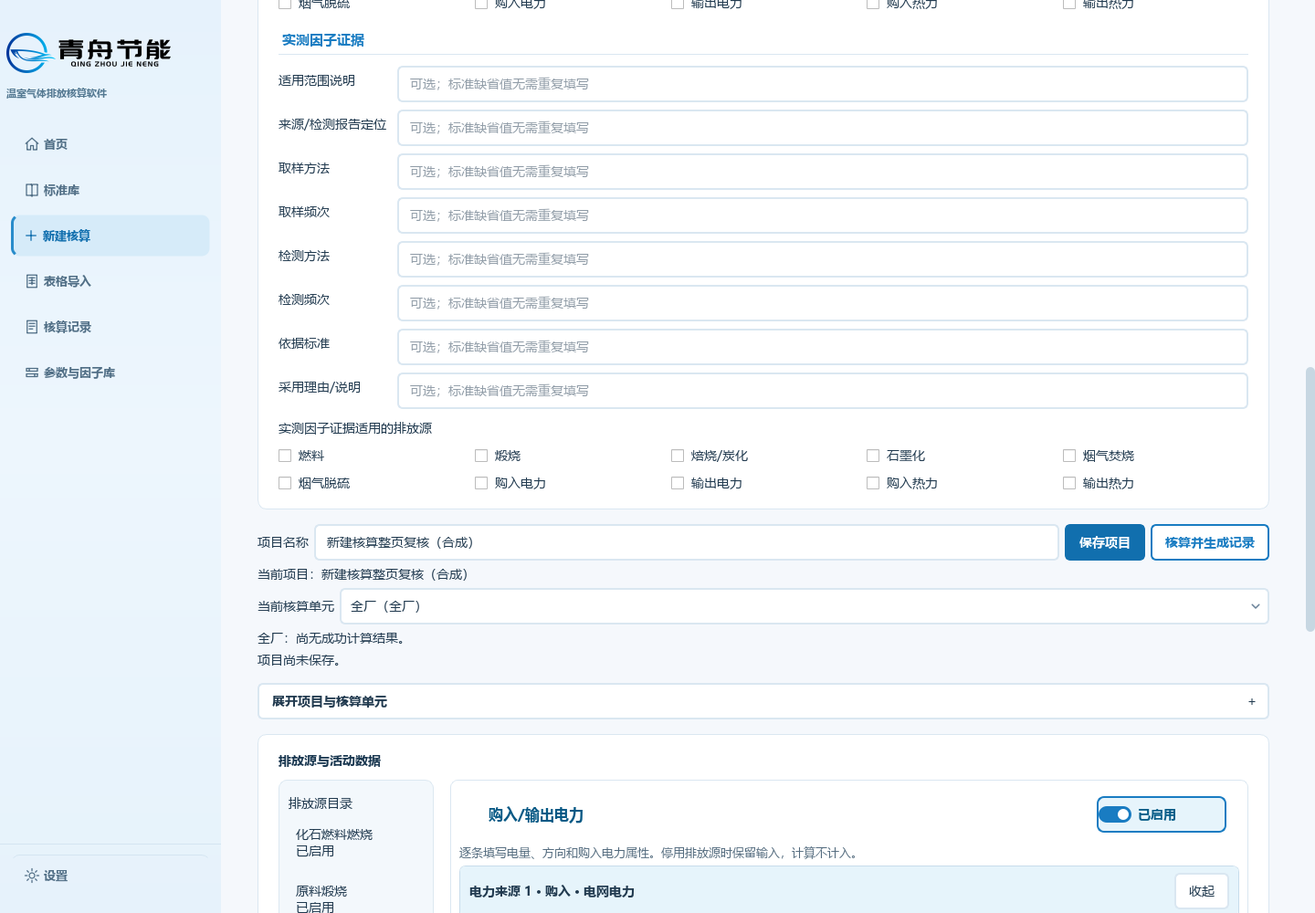
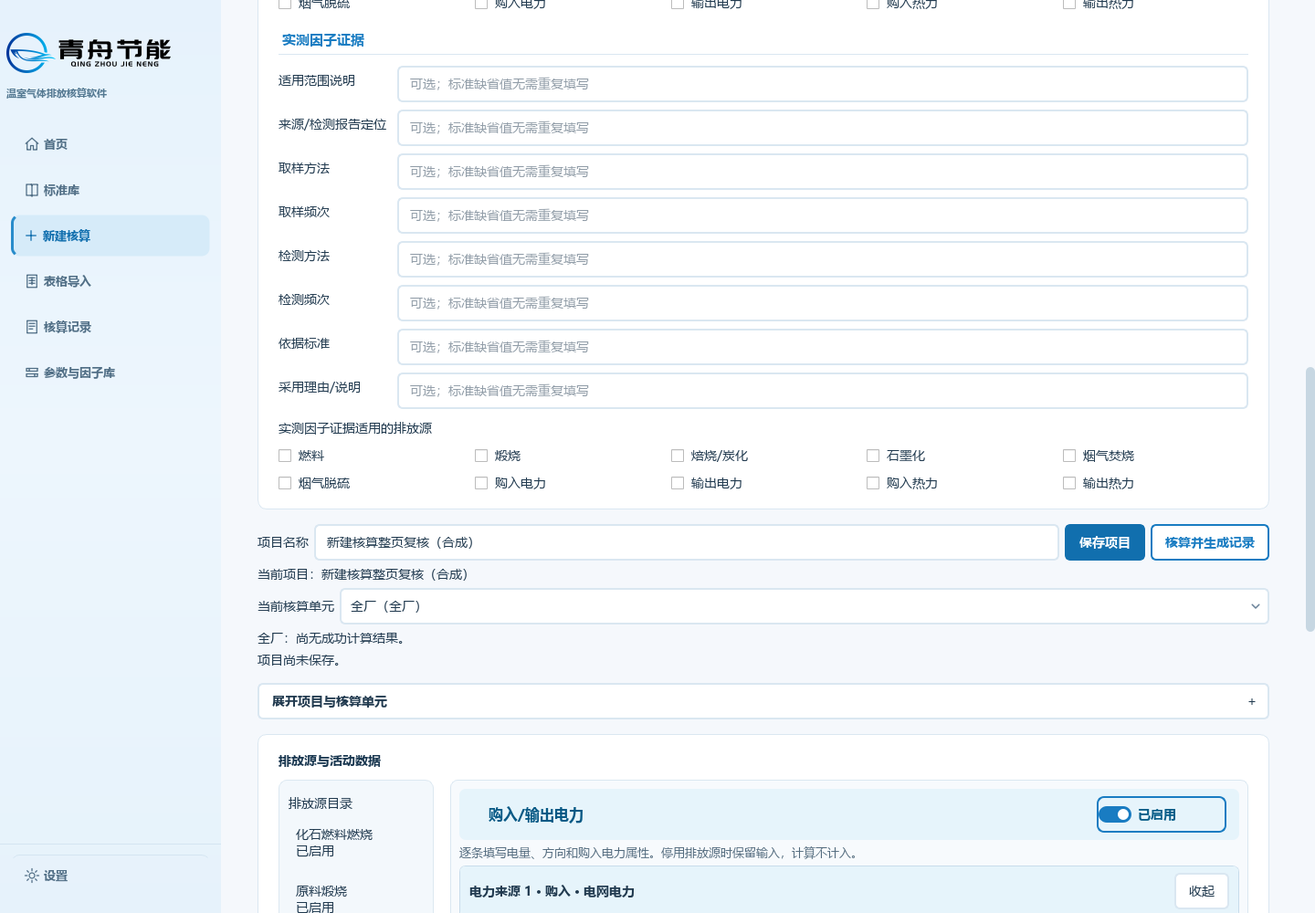
冻结astra已通过图集及完整回归前证据

Changed region(s): [[0.3438, 0.837, 0.9688, 0.93]]

diff --git a/IMPLEMENTATION_REPORT.md b/IMPLEMENTATION_REPORT.md
@@ -1,52 +1,50 @@
-# 新建核算第二批实施报告（视觉复核中，2026-10-29）
+# 新建核算第二批实施报告（视觉通过，完整回归前）
 
-R7候选断点：698ba17受影响回归R27共40/40通过478.760s，R6综合70+旧项目22抓图均成功、源稳定/回调0；燃料下部与添加按钮已完整显示、灰块清理。自查发现目录旧泛用background:white覆盖集中后的标题蓝底；当前仅把该规则限定面板本身，恢复同一tokens原配色，不恢复逐对象样式重编译。准备新清洁head R7同组新图复验；原R5/R6图不改标。以下旧断点保留历史，最终阶段报告会统一重写。
+2026-10-29。产品源a0dabc8ca49e744ef73704a126c2eaae2fc314dc；本报告冻结前本地证据与后续GitHub精确head证据分别记录，不预填CI通过。
 
-最新稳定断点：R24天然气宽1440→窄1180→宽1440的完整氧化率控件/换算值/添加按钮及原嵌套布局2/2通过37.773s，状态/Record不变。R26原三档缩放父测试1/1通过171.652s；实际DPR1/1.25/1.5分别55.946/56.274/56.461s，均在原60秒子进程限制内，断言/预算不改。已集中页面局部重复样式、批量迁移原控件、对非wheel事件等价False快速放行，显示/隐藏配对注册与wheel保护保留。R5 astra已逐图92/92复核，原图/source/script哈希一致，仅旧燃料宽转窄HOLD待新图关闭；灰块非阻断亦已在新候选清理。当前准备新清洁候选R6同组图、受影响回归与astra复验，尚未完整回归/新PR/CI/打包。
+## 平台 / Contract预检查
 
-前序真实失败：R20 1.0超60秒，1项失败67.757s；R21剖析单档几何通过93.055s但不是原60秒门禁通过；集中样式R22仍失败63.095s；布局批处理R25虽59.827s输出PASS但进程未在60秒退出，仍失败62.647s。全部原日志/阶段输出保留，未改标成功。燃料裁切的实测根因是内容649高而viewport滞留539高，修复仅通知自然高度变化，不靠硬编码高度或取景掩盖。
+canonical origin实际核对adgo07/GHGTOOL；复用codex/new-accounting-page-v2，非破坏性整合PR60/PR62已合并main224442530fcc61d8224c45e486688b2c27ec9324。中央Frozen锁ee5feb0cc34dbd99790500fadd0c4c932e202a20不变；按锁读取Architecture V2.1，MUST保持分层、显示不回流计算、Qt状态不成为公共Workspace。已读正式中央main a389ac1de63c4f331f3b04e5e7b7a17ef02ed111的ACTIVE UI v0.2与家族规格。本任务不涉及中央公共 Contract，无需改中央；UI缺陷分类LOCAL DEFECT，Carbon p40/HALF_UP仍为项目Profile。相关Standard Issue015/016/017/020存在，本任务未改变既有软件解释、公式、标准范围或SUPPORTED状态。
 
-当前修订断点：R5复核发现旧燃料宽转窄内部裁切HOLD；已定位内容649高而viewport仍539高。具体ScrollArea尺寸通知修复及原嵌套边界R24共2/2通过37.773s，form_state/Record不变。R20原三档父测试第一档60秒超时（67.757s）；R21单档剖析93.055s几何通过但不代替60秒门禁，139次重复框架累计26.640s，其中278次局部样式14.421s。集中样式后R22仍超时（63.095s，dynamic57.405/geometry59.469）；现进一步批量迁移布局，原60秒上限/断言不改，R25运行中。原失败和R5全部原件保全。当前新修订未提交，后文4552afa/R5为前一候选历史，不能当最新视觉已过。待性能验证、定向回归稳定后新清洁head重新抓R6并送astra；完整回归/新PR/CI/包仍未运行。
+## 实现与保护范围
 
-## 平台 / Contract 预检查
+八源用户点击启用、已启用再点击只浏览；程序/恢复/错误导航不启用。外部CO₂第九入口独立，访问不自动声明，不并入ES/EI/ET。燃料改为含碳量数据来源，保留路径与来源维度。电力地区/精确候选值/年份来源分列，保留五表/OTHER/真实0/无适用阻断。热力按Owner批准简化常用外购入口、特殊展开、旧未知/内部/输出保留，Issue015不变。
 
-业务仓canonical origin已实核为`adgo07/GHGTOOL`；沿用`codex/new-accounting-page-v2`工作树，保留e8776de既有成果，非破坏性合并最新main `224442530fcc61d8224c45e486688b2c27ec9324`。PR60、PR62均已合并，原未合并依赖假设失效。中央Frozen锁`ee5feb0cc34dbd99790500fadd0c4c932e202a20`不变；当前正式中央main `a389ac1de63c4f331f3b04e5e7b7a17ef02ed111`的ACTIVE UI v0.2（2026-10-26视觉默认值）与产品家族规格已读取。相关Architecture V2.1要求Presentation/Application/Domain分层、显示不回流正式计算；Qt控件状态不能成为未来跨平台Workspace Contract。本任务不涉及中央公共 Contract，不需修改中央Frozen；整合缺陷属于LOCAL DEFECT。Carbon p40/HALF_UP为本项目Profile，不是平台默认。
+父子对象标题/归属/增删/折叠、新增及首次错误定位保留原控件、ID、草稿。旧FGD用量10/2、零替代物料的汇总100/80、烟气旧时长/显式升级保持。项目/单元/保存上下文前置，报告三小节分组，核算动作统一核算并生成记录。未来其他标准补充仅记既有路线意图，不加算法。
 
-相关Standard Issue015/016/017/020存在，本任务不改变既有软件解释、公式、正式结果、标准范围或SUPPORTED状态。母版、Word、Canonical、Schema、迁移及不可变Record语义保持。不得据本次UI优化宣称正式Windows发布。
+相对main仅7个UI生产文件；17个正式输入/保存/恢复/期间/核算方法及show/hide两方法AST相同。Application/Core/标准/持久化/Excel/资源/母版/Word/依赖/workflow、原五页/Shell保护不变。保留家族tokens、40DIP、窗口品牌/DPI/小屏、控件wheel_guard、核算页show/hide配对过滤器及40分钟CI预算。新增借用夹具完整接入只读catalog class初始化/结束hash校验，逐例可变库/Record/控件隔离。原测试方法全部保留，新增17项，实际全量数以最终footer为准。
 
-## 本批范围与家族兼容
+重复样式集中本页面并批量迁移原控件；non-wheel等价False快速放行，wheel路径/配对注册不改。燃料高度修复只通知自身内容自然高度变化，不硬编码高度；实测旧内容649高而viewport滞留539高。目录面板底色只作用自身，保留蓝底；删除旧未使用facility布局的游离重复caption，不换真实selector。
 
-- 八类源由用户明确点击目录启用；已启用再点击仅浏览。程序切换、恢复、错误定位不启用。小屏原生下拉同样区分activated与setCurrentIndex。
-- 外部CO₂为第九独立软件补充入口；访问不勾选同边界/同期/未重复计入声明，不并入标准ES/EI/ET。
-- 燃料“含碳量数据来源”保留HEAT_CONTENT/DIRECT路径与参数来源维度。电力地区紧邻、精确所选候选值与年份/来源分别显示；保留五表/OTHER/真实零/冲突/无适用阻断，不隐式回退。
-- 热力采用Owner批准的“常用外购入口简化，特殊情况可展开，旧值保留”；新行外购/未计燃料默认不覆盖旧未知、内部、输出草稿，不改变Issue015消重。
-- 重复父对象/明细有独立标题、父对象名、边界、所属增删及折叠；不克隆原输入。新增定位、实际问题树首次定位与取消过期请求；旧烟气时长/升级、旧FGD不同用量10/2、旧材料汇总100/80继续可读/可编辑且不创建替代物料。
-- 当前项目/单元/保存上下文前置，管理渐进展开；报告三小节分组，核算动作统一“核算并生成记录”。未来各标准补充入口仅记既有路线产品意图，不新增规则。
+## 本地定向验证
 
-本批相对main仅改7个UI生产文件；17项正式输入/保存/恢复/期间/核算方法AST相同。保护Application/Core/标准/持久化/Excel/资源/模板/Word/工作流/依赖/中央锁及原五页/Shell，保留PR62共享design_tokens、40DIP、窗口几何/高DPI品牌、小屏、控件wheel_guard、核算页show/hide配对过滤器及40分钟CI预算。新增借用项目夹具完整接入只读catalog class生命周期与结束hash校验，逐例可变库/Records/控件仍独立。
+Python3.12.14 / Qt6.11.2 / Windows offscreen / 合成隔离库。以下组重叠不累计，定向测试在稳定提交前工作树执行、随后提交相同源码，不描述成最新Git head或GitHub已执行。命令均为python -B -m unittest 加下列模块/方法及-v；完整原命令/日志由私有证据索引保全。
 
-## 当前本地验证与失败保全
-
-Python3.12.14、PySide6/Qt6.11.2、Windows Qt offscreen、隔离合成数据库。以下组有重叠，不累计为全量；全部为本地执行，不是GitHub Actions。
-
-| 原始日志后缀 / 命令模块 | 实际结果 |
+| 范围 / 日志后缀 | 实际结果 |
 |---|---|
-| main-integration-r15 / controls、entry_layout、repeated_entries、energy_presentation、source_directory、PR59 navigation | `python -B -m unittest <6模块> -v`，37项36通过/1焦点失败，508.654s |
-| compact-r16 / compact_activation | 原生popup/Return、程序导航及外部补充，1/1，11.374s |
-| conversion-800-r17 / PR59实际折叠换算方法 | 1180×800、1180×850、1680×1000真实问题树点击，1/1，56.900s |
-| reentrant-width-r18 / entry_layout、compact_activation、PR59主动启用取消旧焦点 | 3/3，54.539s；原焦点断言保留，新增电力完整标签横向边界与目录互斥 |
-| family-integration-r19 / 旧文案、已启用源浏览、compact双视口、40DIP/精度/wheel、无无关全局事件 | 5/5，57.512s；只同步批准文案/已启用夹具，原业务和几何断言全部保留 |
-| Canonical / compileall / pip check，4552afa | `python scripts/validate_canonical.py`：9标准/12来源/102参数/138因子；`python -m compileall -q apps packages resources scripts tests`：0；`python -m pip check`：0，无破损依赖 |
-| scope-4552afa | 17方法AST及受保护层相对main一致，7个UI文件允许范围内 |
+| controls、entry_layout、repeated_entries、energy_presentation、source_directory、PR59六模块 / r15 | 37项36通过/1焦点失败，508.654s |
+| tests.test_accounting_compact_activation / r16 | 1/1，11.374s |
+| PR59实际折叠换算方法 / r17 | 1/1，56.900s，1180×800/1180×850/1680×1000真实树点击 |
+| entry_layout、compact_activation、PR59主动启用取消旧焦点方法 / r18 | 3/3，54.539s |
+| UIR04状态及Family小屏/双视口/40DIP/wheel/无无关窗口事件 / r19 | 5/5，57.512s |
+| tests.test_uir04_finalization.UIR04FinalizationTests.test_common_windows_scale_factors_keep_controls_visible / r20 | 第一档原60秒超时，1失败67.757s；后两档未执行 |
+| 同原父测试 / r22 | 1失败63.095s |
+| tests.test_accounting_entry_layout / r24 | 2/2，37.773s |
+| 同原三档父测试 / r25 | 1失败62.647s；虽59.827s输出PASS，未按时退出，保留失败 |
+| 同原三档父测试 / r26 | 1/1，171.652s；实际DPR1/1.25/1.5各55.946/56.274/56.461s，原60秒/断言不改 |
+| controls、repeated_entries、energy_presentation、source_directory、PR59、compact及Family三方法 / r27 | 40/40，478.760s |
+| tests.test_accounting_entry_layout / r28 | 2/2，34.274s，含caption唯一及原几何/零Record断言 |
 
-R15焦点诊断发现宽818时导航与compact同时可见，适配同步resize重入后焦点落编辑滚动区；通过重入保护及导航焦点交接修复，未放宽原测试。电力长候选撑宽由下拉最小宽约束修复，完整值/出处仍在原换行标签显示。前序R7～R10布局失败、R11/12/13/14通过及所有中断日志均保全；原控件迁移删除旧QWidgetItem才创建新布局项，失败的通用高度监听已全部移除。详见前序Git断点及最终证据索引，不能把旧局部组改标当前全量。
+R21为python -B -m cProfile scripts/uir04_scale_acceptance.py --scale 1.0 --work-area desktop：单档几何93.055s通过，含剖析开销，不替代60秒门禁。139次框架累计26.640s含278次局部样式14.421s，性能修正在UI层。R15焦点根因为尺寸适配重入，原焦点断言保留。前序布局失败/中断及所有R20/R22/R25原日志保留，不改标成功。
 
-## 视觉证据及未完成交付
+最终源a0dabc8：python scripts/validate_canonical.py为9标准/12来源/102参数/138因子；python -m compileall -q apps packages resources scripts tests、python -m pip check均exit0。17正式方法、两生命周期及受保护层机械核对通过。
 
-产品源候选`4552afada1c43db5038056b2869e9ad4e1c07bb4`：R5综合70张、完整171项apps/packages/resources工作文件与Git blob SHA全部原始字节一致，Qt回调0、合成Record0；R5旧项目22张、回调0、源hash稳定，`13-shared-result`实际1条合成Record，其余场景为0，不能统称全0。显式外部补充勾选图与最后未勾选状态分列。两档1180×800/1440×1000，包含报告勾选/未勾选/年焦点、三小节、源状态、重复对象及旧值。直接reveal图不是问题树点击证明，实际树点击由R17及旧项目图覆盖。
+## 视觉门禁与后续交付
 
-[代表图集](docs/ui/new-accounting-v2/README.md)原样选23图、3080014字节，[图像/源码清单](docs/ui/new-accounting-v2/capture-manifest.json)绑定源head、原始图和两份summary摘要。完整92图、脚本、日志及所有失败原件在本次私有证据目录保全；不上传用户库或标准全文。R3 legacy真实viewport失败保留；R4综合exit1、仅14图且异常hook未留下确切主异常，截图可见横向裁切，不能凭推断宣称退出原因已证实；R4旧项目22图成功仅为前一候选历史证据。
+astra R8视觉门禁通过，可以完整回归：本轮实际查看18张代表图，结合R5全部92张审查及R6燃料复核，已关闭裁切、配色/父子边界、灰块、重复标签，旧项目/换算定位代表场景正常。92/92图片、171/171全页源码、148/148旧项目源码及两脚本hash吻合；hash核验不等于本轮逐张查看。原会话回执已保全。
 
-Owner已直接授权本批及后续迭代发送原astra会话。R5两包均已发送，视觉结论待返回；不得因已发图宣称通过。当前本批完整回归、新required CI、精确候选包及源独立验收尚未完成；未push、未建新PR、不自动合并或发布。后续先关闭视觉HOLD，再冻结源码执行完整回归，通过后稳定批次push/new PR、复用同head必要CI与精确包交源验收。
+[25张原样代表图](docs/ui/new-accounting-v2/README.md)共3342938字节，[清单](docs/ui/new-accounting-v2/capture-manifest.json)绑定R8原图及源a0dabc8，含原HOLD的燃料宽/窄两图。完整70+22图：全页Record0；legacy仅13-shared-result为1条合成Record，其余0。显式声明图True与结束False分列。直接reveal图不冒称树点击；真实树点击由PR59/R17及legacy覆盖。R1～R8原件/所有失败保留；早期视觉ZIP370文件38881505字节SHA256=79eaaddd1768f45eeccf0f7bd978c41e5c020a80424859e09794ea392c7922cb仅为历史快照，不冒称含后续全量/CI/制品。
 
-未执行原生桌面、Office/IME、人工多屏DPI切换、企业样例、干净机。仅Qt offscreen，不使用变通桌面控制。根用户工作簿未动；不把主线CI318或PR60旧包当成本批结果。
+下一步冻结清洁提交运行python -B -m unittest discover -s tests -t . -v，完整回归尚未启动。通过后稳定push/独立PR、必要required CI/精确包交源验收；GitHub实际head/run/job/artifact/rawlogs/ZIP/manifest/audit/两次离屏启动回执另附，不用main CI318或旧PR60包冒本批。不自动合并或发布。
+
+未执行原生桌面、Office/IME、人工DPI/多屏、企业样例、干净机；根用户工作簿不动。视觉门禁不替代完整回归或正式产品验收，不宣布SUPPORTED。

diff --git a/HANDOFF.md b/HANDOFF.md
@@ -1,17 +1,11 @@
-# R6接续断点（2026-10-29）
+# 新建核算第二批交接（2026-10-29）
 
-R5 astra已完成92/92图复核，仅燃料宽转窄内部剪裁HOLD，灰块非阻断。新候选已修局部ScrollArea自然高度通知（649/539实测根因），R24几何2/2 37.773s；已将重复样式集中页面并批量迁移、non-wheel快速放行但show/hide配对及wheel保留。R26原三档/原60秒保护1/1 171.652s，实际55.946/56.274/56.461各档通过；R20/R22/R25失败和R21慢剖析保留。下一步受影响回归、新清洁head的R6 70+22图与astra唯一HOLD复验，仍未full/push/PR/CI/包。不再用R5图片改标当前源码；全部原件和视觉历史ZIP保留。
+沿用codex/new-accounting-page-v2，非破坏性整合PR60/PR62合并main224442530fcc61d8224c45e486688b2c27ec9324。产品源a0dabc8ca49e744ef73704a126c2eaae2fc314dc；当前25图/源码清单、预检查与真实测试见IMPLEMENTATION_REPORT。批准附件SHA256=4922b39e0a3052ba956c54ad64951932e5535c60685f8c8ab1fb4bceacb89d73，仅本批新建核算全页。
 
-# 新建核算第二批实施交接（2026-10-29）
+Owner直接授权本批全部后续astra复核，R8门禁已通过：本轮18图+R5全92图+R6燃料复核，新图/源/脚本hash通过。旧原件/失败不覆盖。R24/R26/R27/R28对应回归通过，原60秒和40min预算/原断言/原测试方法保留。
 
-唯一实施分支codex/new-accounting-page-v2，继续e8776de原成果，非破坏性整合已合并PR60/PR62 main224442530fcc61d8224c45e486688b2c27ec9324。当前产品源4552afada1c43db5038056b2869e9ad4e1c07bb4。不得重置、整文件覆盖主线；根用户工作簿不碰。不自动合并/发布/进入下一范围。
+Frozen锁ee5feb0cc34dbd99790500fadd0c4c932e202a20不变，本任务不涉及中央公共Contract，不改Issue015/016/017/020解释。家族统一、配对/wheel及17正式方法保护，可变项目/不可变Record/Word链不变。
 
-完整批准附件SHA256为4922b39e0a3052ba956c54ad64951932e5535c60685f8c8ab1fb4bceacb89d73；本批仅新建核算全页，不重做已合并五页。九入口、电力、热力常用简化/特殊展开/旧值保留、全部重复条目与上下文/报告已按批准实现，细项见IMPLEMENTATION_REPORT。未来各标准补充只为现有路线产品意图，无新算法或SUPPORTED。
+接着冻结清洁提交完整本地回归（新鲜输出、隔离LOCALAPPDATA/TEMP、源码hash/退出码/log/footer保全）；尚未full/push/新PR/CI/包。通过后稳定push/new PR、同head required和精确包ZIP/manifest/rawlogs/audit/两次离屏启动/静态绑定交源验收，不自动合并/发布。GitHub与本地分列，不沿用旧CI/包。阶段完成重写当前报告，最终交付回执登记实际身份。
 
-中央Frozen ee5feb0cc34dbd99790500fadd0c4c932e202a20保持；本任务不涉及中央公共Contract，Issue015/016/017/020解释不变。家族tokens/40DIP/窗口+DPI品牌/小屏/wheel_guard/核算页show-hide配对过滤器、只读catalog生命周期及40min CI预算全部保留。17个正式方法AST与最新main一致、7UI允许范围之外生产文件保护。
-
-R5综合70+旧项目22整窗图均完成，绑定4552afa。两份summary/全部原图在本批证据目录保全，23图原样入库。comprehensive171源工作文件=Git blob，Record0；legacy共享结果1条合成Record，其余0。R3 legacy及R4综合失败保留，不覆盖。R15焦点失败已诊断并修，原断言R18通过；当前所有本地实际命令/计数/耗时与未执行项见实施报告。
-
-Owner直接授权本批后续astra路径/hash/测试摘要发送原复核会话，不需再次确认。R5两包已发，先处理反馈；视觉关闭后冻结源码完整回归，再稳定push/new PR与必要required CI/精确包，交源验收。现在未完成本批全量、CI、包或独立验收，不沿用主线CI318或PR60制品。
-
-仅真实Qt offscreen和合成隔离库，禁止原生CU/变通桌面/Office/IME/人工DPI/企业数据。保留所有失败中断原件；证据与产品源码SHA分别绑定。
+仅Qt offscreen合成隔离库，根用户工作簿不动，无原生CU/变通桌面/Office/IME/人工DPI/企业数据。

diff --git a/TASK_STATE.md b/TASK_STATE.md
@@ -1,11 +1,9 @@
-# 新建核算第二批当前断点（2026-10-29）
+# 新建核算第二批当前状态（2026-10-29）
 
-本仓origin为adgo07/GHGTOOL，原任务分支codex/new-accounting-page-v2，已整合PR60/PR62合并main224442530fcc61d8224c45e486688b2c27ec9324。中央Frozen锁ee5feb0cc34dbd99790500fadd0c4c932e202a20保持；本任务不涉及中央公共Contract，Issue015/016/017/020解释不变。17个正式输入/保存/恢复/核算方法、show/hide配对方法与main AST相同，非UI层/家族壳与tokens/母版/Word/依赖/workflow不改。
+已整合PR60/PR62合并main2244425，产品源a0dabc8，Frozen锁ee5feb0不变。本任务不涉及中央公共Contract，17正式方法及show/hide配对AST与main相同；家族统一/40DIP/窗口品牌DPI/小屏/wheel、非UI层、原五页/模板/Word/依赖/workflow保护。
 
-八源用户激活、九卡独立补充、电力完整因子/地区、常用热力简化及旧值保留、父子折叠/增删/定位、项目上下文与报告分组已实现。R5 astra已逐图92/92复核，其余问题关闭，仅燃料宽转窄内部裁切HOLD；R6宽窄两图已由astra独立确认该HOLD可关闭，仍待最终配色图门禁。
+R8 astra视觉门禁通过：本轮18张代表图，承接R5全92张及R6燃料复核；92图片/171全页源/148旧项目源/两脚本hash核对。当前25张原样图，源a0dabc8。全页Record0，legacy结果图1条合成Record，其余0。
 
-已修源内容649高而viewport滞留539高的自然高度通知缺陷，未硬编码高度；灰块清理。重复样式集中页面，批量迁移原控件，非wheel快速放行但原wheel/配对注册保留。R7已恢复蓝底，另自查清理旧未使用facility布局的游离重复caption；不改真实selector和值。
+本地R24几何2/2 37.773s；R26原三档/原60秒保护1/1 171.652s，实际55.946/56.274/56.461；R27受影响40/40 478.760s；R28标签/几何2/2 34.274s。Canonical/compileall/pip check exit0。所有失败/剖析/中断保留，各组重叠不累计为全量。
 
-本地：R24实际宽窄裁切/原嵌套边界2/2，37.773s；R26原三档60秒父测试1/1，171.652s（实际DPR1/1.25/1.5各55.946/56.274/56.461s）；R27受影响40/40，478.760s；清理重复标签后的R28几何/标签2/2，34.274s。此前R15焦点失败、R20/R22/R25超时等真实失败和R21剖析原件保留，不改标通过；R25虽输出PASS仍未按时退出，明确计失败。各组重叠，不等于完整回归，命令/日志见本次证据索引。
-
-当前准备R8新清洁head完整70+22图及astra最终复核；R5/R6/R7原件不覆盖，不把旧图改标新源。图集当前仍是前一候选，待R8验证后原样更新当前23图，Git历史/私有原件保留。本批完整回归、新push/PR/required CI/精确包均未完成。视觉关闭后冻结源码完整回归，通过后稳定批次交付、交源验收，不自动合并或发布。仅Qt offscreen/合成隔离库；不动根用户工作簿，不做原生CU/变通桌面/Office/IME/人工DPI/企业数据。
+将冻结清洁提交做完整discover，期间不改源码/测试/文档；完整回归尚未启动。通过后稳定push/new PR及required/精确包交源验收；未push/新PR/CI/包，不用旧结果，不自动合并/发布。仅offscreen合成隔离库，无原生CU/变通桌面/Office/IME/人工DPI/企业数据，根用户工作簿不动。详见IMPLEMENTATION_REPORT。

diff --git a/docs/ui/new-accounting-v2/README.md b/docs/ui/new-accounting-v2/README.md
@@ -1,6 +1,6 @@
 # 新建核算第二批代表图
 
-源码候选`4552afada1c43db5038056b2869e9ad4e1c07bb4`，已整合PR62家族UI基线。原样选取23张整窗图；完整70+22张及全部失败/历史日志在本次交付证据包保全。图片没有裁剪、重绘或拼接，见[源码与图像清单](capture-manifest.json)。视觉复核的实际结论见本阶段IMPLEMENTATION_REPORT，图集本身不等于验收通过。
+源码候选`a0dabc8ca49e744ef73704a126c2eaae2fc314dc`，已整合PR62家族UI基线。原样选取25张整窗图；完整70+22张及全部失败/历史日志在本次交付证据包保全。图片没有裁剪、重绘或拼接，见[源码与图像清单](capture-manifest.json)。视觉复核的实际结论见本阶段IMPLEMENTATION_REPORT，图集本身不等于验收通过。
 
 全部是Qt offscreen、合成输入和隔离数据库；不代表原生桌面或正式发布。外部补充显式声明图与结束未勾选状态分列。旧项目汇总不创建替代物料，旧脱硫10/2保留，不重算历史Record。
 
@@ -11,6 +11,14 @@
 ## fuel-narrow
 
 ![fuel-narrow](fuel-narrow.png)
+
+## fuel-reflow-wide
+
+![fuel-reflow-wide](fuel-reflow-wide.png)
+
+## fuel-reflow-narrow
+
+![fuel-reflow-narrow](fuel-reflow-narrow.png)
 
 ## calcination-narrow
 
